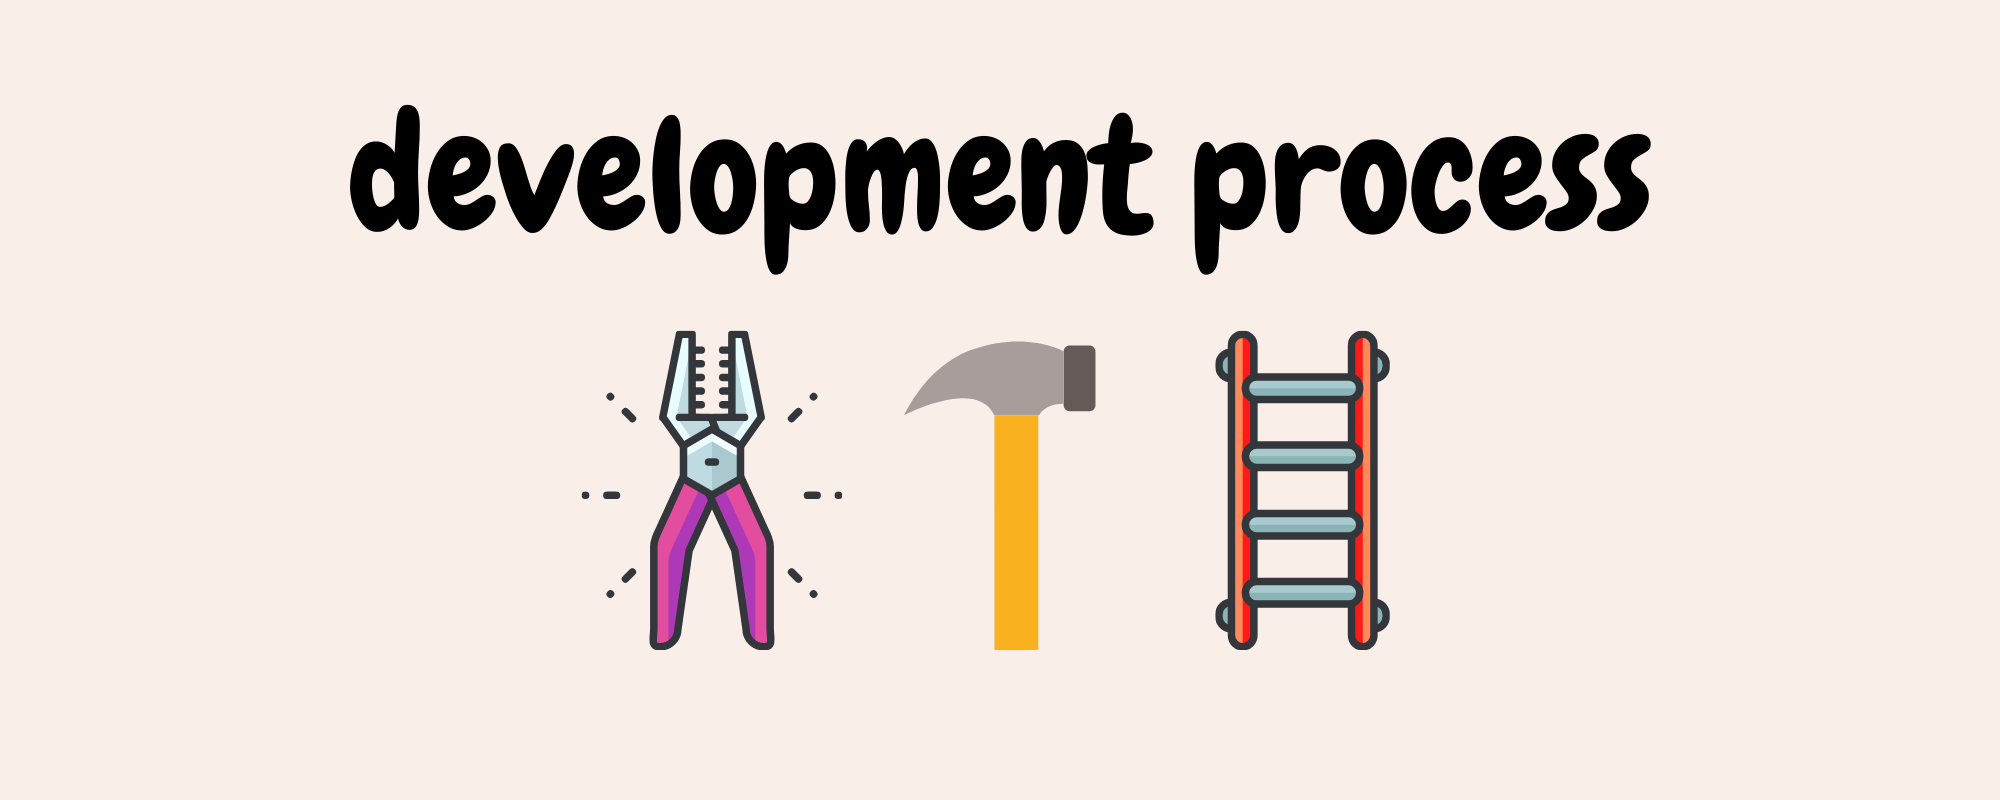
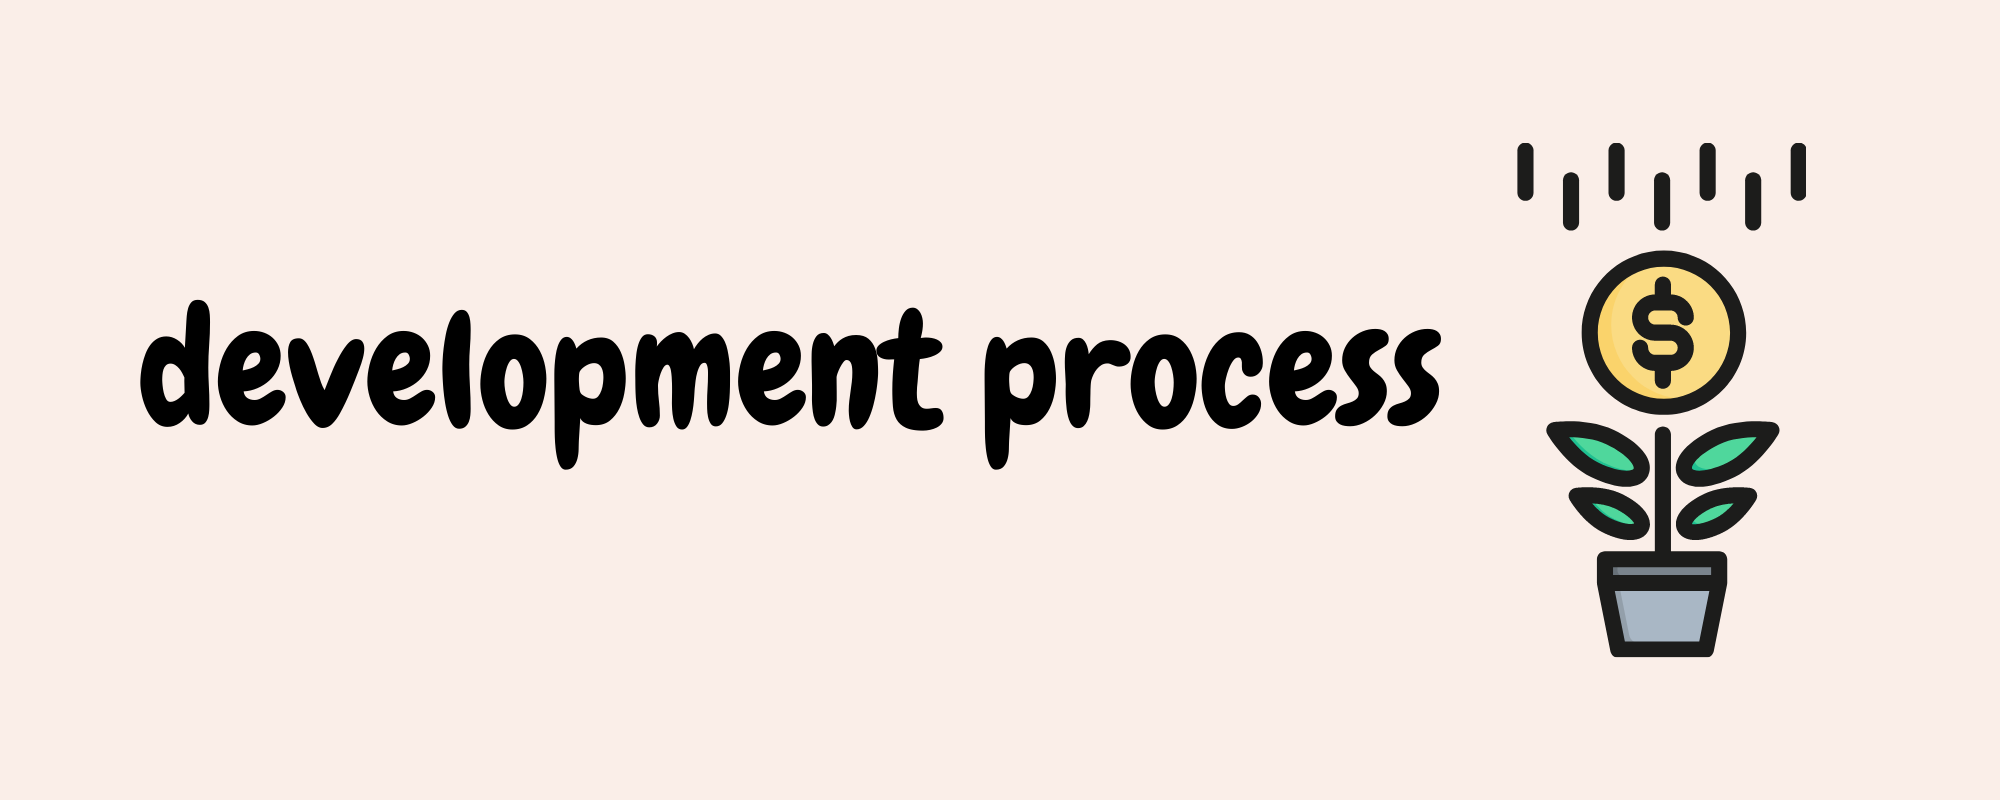
completed steps 1-5 in developement page

Changed region(s): [[0.155, 0.125, 0.93, 0.8438], [0.062, 0.375, 0.744, 0.8125]]

diff --git a/templates/development.html b/templates/development.html
@@ -15,110 +15,142 @@
   <div class="container">
 
     <div class="view overlay my-4">
-      <img src="../images/team.png" class="img-fluid" alt="">
-    </div>
-    
-    <div class="card mb-3" style="max-width: 1000px;">
-      <div class="row no-gutters">
-        <div class="col-md-4">
-          <img src="../images/sandy.png" class="card-img-top" alt="...">
-        </div>
-        <div class="col-md-8">
-          <div class="card-body">
-            <h5 class="card-title">Sandra Froonjian</h5>
-            <p class="card-text">Sandra graduated from Stockton University with a bachelors degree in Biology and Education. 
-              Before the Bootcamp, she taught middle and high school biology for almost 3 years. 
-              During her time as a teacher, she started self mastering how to code, and realized that she wanted to 
-              pursue a career in computer programing instead. 
-              She researched careers in the industry and academic programs, which led her to enroll this Data Science Bootcamp at Rutgers. 
-              Her goal is to become a data engineer.
-            </p>
-            <a href="https://www.linkedin.com/in/sandrafroonjian/" class="card-link">LinkedIn</a>
-            <a href="https://github.com/sfroonjian" class="card-link">GitHub</a>
-            <a href="https://public.tableau.com/profile/!/" class="card-link">Tableau</a>
-          </div>
-        </div>
-      </div>
+      <img src="../images/developement.png" class="img-fluid" alt="">
+<br>
+<br>
+<br>
 
-      <div class="card mb-3" style="max-width: 1000px;">
-        <div class="row no-gutters">
-          <div class="col-md-4">
-            <img src="../images/kasia.jpeg" class="card-img-top" alt="...">
-          </div>
-          <div class="col-md-8">
-            <div class="card-body">
-              <h5 class="card-title">Katarzyna (Kasia) Kalemba</h5>
-              <p class="card-text">Kasia graduated from Rutgers University with a Bachelor's degree in Cell Biology and Neuroscience  
-                and a Master's in Biomedical Science. She is currently a full time research scientist at Robert Wood Johnson Medical School
-                studying molecular mechanisms of disease. After the Data Science Bootcamp, she hopes to combine her scientific 
-                passion and knowledge with her newly aquired skills in coding. See links below for more information on her work. 
-              </p>
-              <a href="https://www.linkedin.com/in/katarzynakalemba/" class="card-link">LinkedIn</a>
-              <a href="https://github.com/kasiakalemba" class="card-link">GitHub</a>
-              <a href="https://public.tableau.com/profile/katarzyna.kalemba#!/" class="card-link">Tableau</a>
-            </div>
-          </div>
-        </div>
+<h1>Brief introduction:</h1>
+<p>As most of the Bootcamp graduates will be looking for a new job, our group developed a tool to explore the different tools used in the field and the expectations that different data professional job titles possess. Through our app, you can see a salary prediction based on your region, years of experience and primary tools used in a specific job title. By using our tool, you can estimate how much you can expect to earn with the current skills you have as well as compare your expertise to those in the field. </p>
+<p> We used the skills we learned in the Rutgers Bootcamp Course in order to accomplish this task. See below for a set by step guide behind our though process behind our developement.</p>
+
+<br>
+
+<h1>Step 1: Data Processing</h1>
+<div class="progress">
+  <div class="progress-bar progress-bar-striped progress-bar-animated" role="progressbar" style="width: 10%" style="height: 40px" aria-valuenow="10" aria-valuemin="0" aria-valuemax="100">10%</div>
+</div>
+
+<br>
+
+<h4> Data Sources</h4>
+<p>The first data set was collected from 171 countries as a survey for a Kaggle Competition. The survey responders were data professionals who are currently working in the field. We used their responses for the visuals for salary, gender, country, age and multiple data tools that they use in their current jobs. <a href="https://www.kaggle.com/c/kaggle-survey-2019">Get Data Here</a>
+
+<p> Our second dataset was used to develop our machine learning model for the salary prediction. We used factors such as location, title, primary database use, management level, education and year experience to predict a salary for a data professional. 
+<a href="https://www.brentozar.com/archive/2019/01/the-2019-data-professional-salary-survey-results/">Get Data Here</a>
+
+<br>
+
+<h4> Cleaning Dataset 1 Kaggle Survey </h4>
+<ul>
+<li>The original CSV file was loaded in Jupyter Notebook and consisted of 246 columns and 19718 rows and was narrowed down to 109 columns and 19718 rows.</li>
+<li>Columns were renamed for easier data access.</li>
+<li>Age and Salary columns consisted of ranges therefore we took both of those fields and took their column average that was needed for our visualizations. </li>
+<li>Extra characters such as: $, :, > were subsequently stripped from the text and columns were converted to integers or floats as needed.</li>
+<li>A clean CSV was exported for the remaining work. </li>
+</ul>
 
 
-    <div class="card mb-3" style="max-width: 1000px;">
-      <div class="row no-gutters">
-        <div class="col-md-4">
-          <img src="../images/solito.jpeg" class="card-img-top" alt="...">
-        </div>
-        <div class="col-md-8">
-          <div class="card-body">
-            <h5 class="card-title">Solito Reyes III</h5>
-            <p class="card-text">Solito is a Data Scientist who graduated from a univeristy.
-              He plans to use his newly aquired skills in a new badass job.
-            </p>
-            <a href="https://www.linkedin.com/in/solitoreyesiii/" class="card-link">LinkedIn</a>
-            <a href="https://github.com/solrey3" class="card-link">GitHub</a>
-            <a href="https://public.tableau.com/profile/solito.reyes#!/" class="card-link">Tableau</a>
-          </div>
-        </div>
-      </div>
+<h4>Cleaning Dataset 2 Brent Ozar Data:</h4> 
+<ul>
+<li>The original CSV file was loaded in Jupyter Notebook and consisted of 6893 rows and 29 columns and was narrowed down to 6893 rows and 17 columns.</li>
+<li>By inspecting the column types we did the following a) converted them into needed types such as integers or floats, b) replaced extra characters such as commas or dollar signs c) replaced values in the years column that were not filled out correctly by the user. </li>
+<li>There were 10 job fields that were dropped from the whole dataset because they only consisted of 1-2 entries for each. </li>
+<li>Job titles within the same category such as Database Analyst were merged into one category or separated based on management. </li>
+<li>We merged a new dataset that included a world region based on country because we wanted our future data to be based on the region on the world rather than each individual country. </li>
+<li>A clean CSV was exported for the remaining work. </li>
 
-      <div class="card mb-3" style="max-width: 1000px;">
-        <div class="row no-gutters">
-          <div class="col-md-4">
-            <img src="../images/sandy.png" class="card-img-top" alt="...">
-          </div>
-          <div class="col-md-8">
-            <div class="card-body">
-              <h5 class="card-title">Adriana van de Guchte</h5>
-              <p class="card-text">Adriana is a Data Scientist who graduated from a univeristy.
-                She plans to use his newly aquired skills in a new badass job.
-              </p>
-              <a href="https://github.com/adrianavandeguchte" class="card-link">LinkedIn</a>
-              <a href="https://www.linkedin.com/in/adriana-van-de-guchte-6096791a3/" class="card-link">GitHub</a>
-              <a href="https://public.tableau.com/profile/!/" class="card-link">Tableau</a>
-            </div>
-          </div>
-        </div>
+</ul>
+</p>
+
+<br>
+
+<h1>Step 2: Machine Learning</h1>
+<div class="progress">
+  <div class="progress-bar progress-bar-striped bg-success progress-bar-animated" role="progressbar" style="width: 25%" aria-valuenow="25" aria-valuemin="0" aria-valuemax="100">25%</div>
+</div>
+
+<br>
+<p>Our machine learning model focused on gathering enough information from the datset that would make an accurate salary predition based on those factors for someone looking for a job in the data science world. Our main features included ... </p>
+<h4>Scikit-Learn Model </h4>
+<ul>
+<li>For data pre-processing, we first selected all the features for the dataset except the salary which we made into our y variable which needed to be reshaped. We then encoded the data that was categorical into integers. Next we used a RandomForestClassifier and feature importance to narrow down the features for our model. We selected 10 features for our model. </li>
+<li>Next we scaled the data using Standard Scaler. </li>
+<li>We then trained and tested our model using: Linear Regression, Gradient Boosting Regressor, Lasso, Ridge and Elastic Net. </li>
+<li>Lastly, we saved the model to use in our future salary prediction in the flask app. </li>
+
+</ul>
+
+<h4>Natural Language Processing </h4>
+<ul>
+<li>Solito did this </li>
+<li>Solito did that </li>
+</ul>
+
+<br>
+
+<h1>Step 3: Visualizations</h1>
+<div class="progress">
+  <div class="progress-bar progress-bar-striped bg-info progress-bar-animated" role="progressbar" style="width: 50%" aria-valuenow="50" aria-valuemin="0" aria-valuemax="100">50%</div>
+</div>
+
+<br>
+
+<p> We decided to make visualizations that represent average salaries based on job titles in the different regions of the world. We also compared female and males salaries to observe whether these is a big gender pay gap and looked at other factors such as age. Other visualizations focused on the tools of the trade and years of experience. </p>
+
+<h4>Tableau</h4>
+<ul>
+<li>The cleaned CSV file 1 was loaded into Tableau Desktop. </li>
+<li>Visualizations for gender pay gap, age and salary region were made using different Tableau options.</li>
+<li>The final dashboard was published in Tableau Public and finally embedded into our html page.</li>
+</ul>
+
+<h4>D3</h4> 
+<ul>
+<li>Different versions of D3 were made compatible by ... </li>
+<li>We used .... </li>
+<li>Another thing ... </li>
+</ul>
+
+<br>
 
 
-        <div class="card mb-3" style="max-width: 1000px;">
-          <div class="row no-gutters">
-            <div class="col-md-4">
-              <img src="../images/sandy.png" class="card-img-top" alt="...">
-            </div>
-            <div class="col-md-8">
-              <div class="card-body">
-                <h5 class="card-title">Shrilekha Vijayakanthan</h5>
-                <p class="card-text">Shri is a Data Scientist who graduated from a univeristy.
-                  She plans to use his newly aquired skills in a new badass job.
-                </p>
-                <a href="https://github.com/Shri2985" class="card-link">LinkedIn</a>
-                <a href="https://github.com/sfroonjian" class="card-link">GitHub</a>
-                <a href="https://public.tableau.com/profile/shrilekha.vijayakanthan8354#!/" class="card-link">Tableau</a>
-              </div>
-            </div>
-          </div>
+<h1>Step 4: Flask App</h1>
+<div class="progress">
+  <div class="progress-bar progress-bar-striped bg-warning progress-bar-animated" role="progressbar" style="width: 75%" aria-valuenow="75" aria-valuemin="0" aria-valuemax="100">75%</div>
+</div>
+<br>
+
+<h4> Developing the Flask App </h4>
+<p>By using Python and Flask App, we were able to connect our data and predictions with the HTML page for our app.</p>
+
+<ul>
+<li>/tools_data/ route focuses on the tools of the data world </li>
+<li>/salary_visuals/ route brings the users to the different salary graphics</li>
+<li>/salary_visuals_country/</li>
+<li>/predictions/ route is the machine learning model that let's a user predict their salary</li>
+<li>/methodology/ route goes into the detailed development process of this app</li>
+<li>/about/ route describes the authors of this project</li>
+</ul>
+
+<br>
+
+<h1>Step 5: Webpage and AWS Deployment</h1>
+<div class="progress">
+  <div class="progress-bar progress-bar-striped bg-danger progress-bar-animated" role="progressbar" style="width: 100%" aria-valuenow="100" aria-valuemin="0" aria-valuemax="100">100%</div>
+</div>
+<br>
+
+<h4>HTML/CSS/Bootstrap</h4>
+<p>The final part of the project was telling the story of our data. The best tool for this job involved creating an interactive webpage allowing the user to explore their career options for their future career in data science. We wanted to introduce the page with the main highlights of the trade by summarizing the job titles. Our goal was to create a clean, modern, creative and a user friendly page. For this part, we used formatting provided by the Bootstrap library, some CSS styling and the Canva platform to create our graphics.</p>
+
+<h4>AWS Deployment</h4>
+<p> Deployment to AWS was the final step to make the webpage accessible by a link for the user. </p>
+
+<br>
+<h1>Tools and Technologies Used</h1>
 
 
-
-    </div>
 
     <script src="https://code.jquery.com/jquery-3.3.1.slim.min.js"
       integrity="sha384-q8i/X+965DzO0rT7abK41JStQIAqVgRVzpbzo5smXKp4YfRvH+8abtTE1Pi6jizo"
